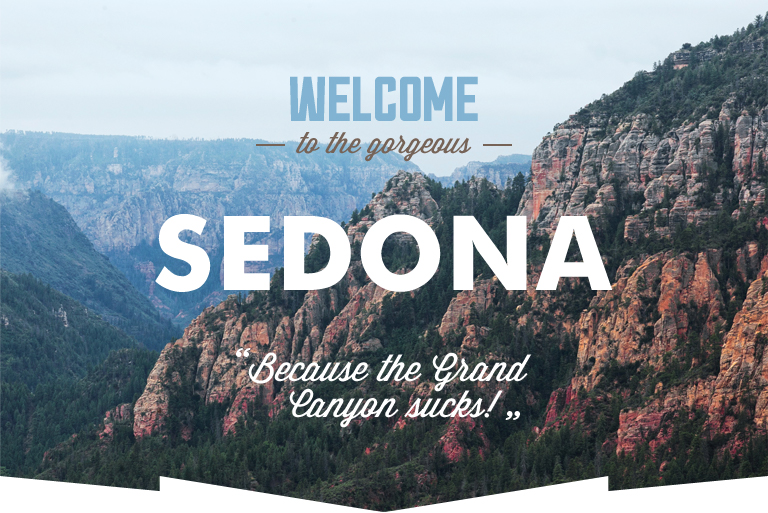
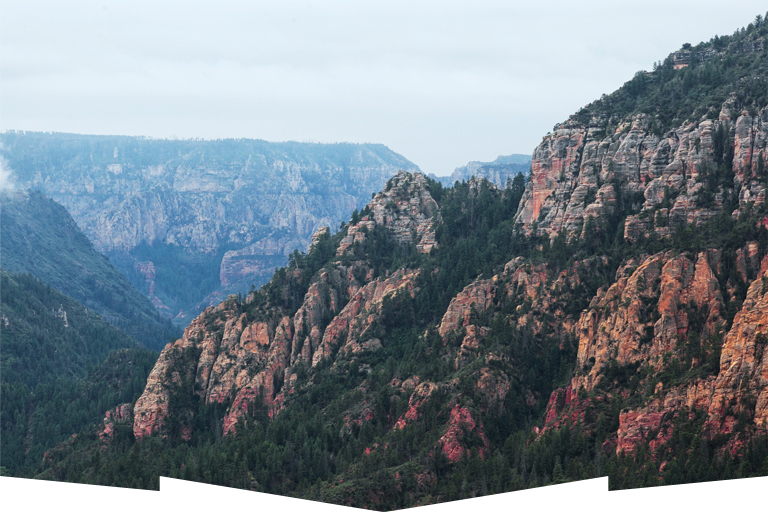
попытка2

Changed region(s): [[0.1875, 0.4055, 0.8125, 0.5926], [0.3438, 0.1248, 0.6562, 0.3119], [0.3125, 0.6862, 0.6875, 0.8421]]

diff --git a/css/style.min.css b/css/style.min.css
@@ -1,0 +1,1 @@
+body,h2{line-height:21px}body{color:#000;font-weight:400;font-family:"PT Sans","Arial",sans-serif;width:768px;margin:0 auto;text-transform:uppercase;box-shadow:0 0 7px rgba(0,0,0,.15);background-color:#939393;font-size:14px}h1,h2{font-size:30px;line-height:24px;color:#000;font-weight:700}h2{font-size:21px}img{max-width:100%;height:auto}.search h2{color:#fff}.clearfix::after{content:"";display:table;clear:both}.main-haeder,main{width:100%;background-color:#fff}.main-navigation{position:relative;text-align:center;padding-top:15px;padding-bottom:15px;background-color:#fff}.main-navigation .left,.main-navigation .right{float:left;padding:0;margin:0;list-style:none;text-align:left}.main-navigation .right{float:right;text-align:right}.main-navigation li{width:154px;line-height:26px;font-weight:700;float:left}.footer-contacts a,.main-navigation a{text-decoration:none;color:#000}.main-navigation a:hover{color:#a3c7de}.main-navigation a:active{color:#b2b2b2}.main-navigation .active{color:#766357}.main-navigation .active:hover{color:#604e43}.main-navigation .active:active,.main-navigation .active:focus{color:#e1ddda}.main-navigation img{position:absolute;top:0;left:50%;margin-left:-69px;z-index:2}.basic{position:relative;background-image:url(../img/sedona.jpg);width:768px;min-height:513px;background-color:#707273}.basic img{position:absolute;top:76px;left:156px}.text{width:494px;margin:0 auto;padding-top:56px;padding-bottom:50px;background-color:#fff}.text p{margin-bottom:0;margin-top:0}.text .reason,.text .slogan{line-height:26px;text-align:center}.text .slogan{font-weight:700;font-size:21px}.text .reason{font-size:14px;padding-top:28px}.info{color:#fff;width:768px;min-height:255px;text-align:center}.info-left{background-color:#81b3d2;text-align:center;float:left;width:256px;min-height:256px}.info-picture img,.info-right img{display:block;vertical-align:top}.info-picture,.info-right{float:right;width:512px;min-height:255px}.info-picture{float:left}.info-data{background-color:#81b3d2;float:right;width:256px;min-height:256px}.indent{padding:7px 40px 0}.info h2{color:#fff;font-size:21px;line-height:21px;padding:30px 53px 5px 50px}.info .rubric{padding:7px 30px 0 27px}.features{width:768px;font-size:0;text-align:center;padding-top:160px;padding-bottom:60px;background-color:#fff}.features-item{display:inline-block;width:33.333%;vertical-align:top;font-size:14px;line-height:21px;color:#333;position:relative}.food::before,.house::before,.souvenir::before{content:"";position:absolute;background-image:url(../img/spritenow.png);background-repeat:no-repeat;display:block;width:75px;height:72px;background-position:-10px -100px;top:-100px;left:90px}.food::before,.souvenir::before{width:74px;height:70px;background-position:-10px -10px}.souvenir::before{width:64px;height:76px;background-position:-10px -192px;top:-105px;left:97px}.features-item h2{margin:0;padding-bottom:24px}.features-item p{padding-left:50px;padding-right:50px;margin:0}.souvenir p{padding-left:42px;padding-right:42px}.vantage{width:768px;font-size:0;text-align:center;background-color:#eee}.vantage-item{display:inline-block;width:33.333%;min-height:256px;font-size:14px;vertical-align:top}.vantage-item h2{padding:30px 50px 6px}.vantage-item .rubric{padding-top:7px;padding-left:50px;padding-right:50px}.content{display:block;min-height:206px;width:438px;margin:0 auto;text-align:center;background-color:#fff}.content h1{padding-top:57px;padding-bottom:30px;margin:0}.content p{line-height:24px;margin:0;padding-bottom:47px}.scan{position:relative;padding-left:100px;padding-right:100px}.occupation input,.scan .heading{text-transform:uppercase;line-height:26px}.scan .heading{color:#fff;font-family:"PT Sans","Arial",sans-serif;font-weight:700;text-decoration:none;display:inline-block;vertical-align:top;text-align:center;padding-top:30px;background-color:#766357;min-height:56px;width:100%;font-size:21px}.search{position:absolute;top:87px;left:100px;width:458px;min-height:280px;padding:55px;text-align:left;font-size:14px;font-weight:700;text-transform:uppercase;background-color:#fff;box-shadow:0 0 7px rgba(0,0,0,.15);display:none;z-index:20}.search-show{display:block;animation:pullDown 1s}.modal-overlay{position:fixed;top:0;left:0;z-index:10;width:100%;height:100%;background:rgba(0,0,0,.5);display:none}.modal-overlay-show{display:block}.occupation{position:relative;padding-bottom:26px;width:100%}.abulf label,.departure label,.occupation label{float:left;line-height:38px}.occupation input{width:330px;min-height:34px;background-color:#f2f2f2;border:2px solid #f2f2f2;padding-left:11px;outline:none;font-size:14px;float:right}.occupation input:hover{background-color:#ebebeb;border:2px solid #ebebeb}.occupation input:active,.occupation input:focus{background-color:#fff;border:2px solid #e5e5e5}.departure .calendar,.occupation .calendar{background-image:url(../img/calendar.png);width:21px;min-height:22px;position:absolute;top:8px;right:9px}.occupation .calendar:active,.occupation .calendar:hover{background:url(../img/sprite2.png) no-repeat;width:22px;height:25px;background-position:-10px -52px}.occupation .calendar:active{height:23px;background-position:-10px -10px}.departure{position:relative;padding-bottom:27px;width:100%}.departure input{width:330px;min-height:34px;background-color:#f2f2f2;border:2px solid #f2f2f2;padding-left:10px;text-transform:uppercase;outline:none;line-height:26px;font-size:14px;float:right}.departure input:hover{background-color:#ebebeb;border:2px solid #ebebeb}.departure input:active,.departure input:focus{background-color:#fff;border:2px solid #ebebeb}.departure .calendar:active,.departure .calendar:hover{background:url(../img/sprite2.png) no-repeat;width:22px;height:25px;background-position:-10px -52px}.departure .calendar:active{height:23px;background-position:-10px -10px}.abulf{position:relative;width:50%;float:left}.abulf input{width:112px;min-height:34px;background-color:#f2f2f2;border:2px solid #f2f2f2;text-align:center;text-transform:uppercase;outline:none;font-size:14px;line-height:26px;float:right}.abulf input:hover{background-color:#ebebeb;border:2px solid #ebebeb}.abulf input:active,.abulf input:focus{background-color:#fff;border:2px solid #ebebeb}.abulf .minus,.abulf .plus{position:absolute;width:22px;height:23px}.abulf .minus{background:url(../img/minus.png) no-repeat;left:125px;top:20px}.abulf .plus{background:url(../img/plus.png) no-repeat;top:15px;right:5px}.children{position:relative;width:50%;float:right}.children label{float:left;line-height:38px;padding-left:51px}.children input{width:109px;min-height:34px;background-color:#f2f2f2;border:2px solid #f2f2f2;text-align:center;text-transform:uppercase;outline:none;font-size:14px;line-height:26px;float:right}.children input:hover{background-color:#ebebeb;border:2px solid #ebebeb}.children input:active,.children input:focus{background-color:#fff;border:2px solid #ebebeb}.children .minus{position:absolute;background:url(../img/minus.png) no-repeat;width:22px;height:23px;top:19px;left:129px}.minus:active,.minus:hover{background:url(../img/sprite.png) no-repeat;width:22px;height:23px;background-position:-10px -762px}.minus:active{background-position:-10px -250px}.children .plus{position:absolute;background:url(../img/plus.png) no-repeat;width:22px;height:23px;top:15px;right:2px}.footer-copyright a,.plus:active,.plus:hover{background:url(../img/sprite.png) no-repeat;width:22px;height:23px;background-position:-10px -731px}.footer-copyright a,.plus:active{background-position:-10px -527px}.btn,.index-content img{float:left}.btn input{margin-top:54px;width:458px;border:none;min-height:58px;background-color:#81b3d2;color:#fff;font-size:21px;line-height:26px;font-family:"PT Sans","Arial",sans-serif;font-weight:700;text-transform:uppercase;outline:none}.btn input:hover{background-color:#669ec0;width:458px}.btn input:active{background-color:#5496bd;color:#94b9d2;width:458px}.modal-content-map{width:768px;height:593px;background-image:url(../img/map.jpg);background-position:11px -10px;background-color:#cbdda9;background-size:cover}.main-footer{font-size:0;padding-top:33px;padding-bottom:33px;background-color:#fff}.container{padding-left:46px;padding-right:46px;margin:o auto;background-color:#fff}.footer-contacts,.footer-social{display:inline-block;width:33.333%;vertical-align:middle;text-align:center}.footer-contacts{font-weight:700;text-decoration:none;font-size:21px}.footer-social{font-size:14px}.social-btn{display:inline-block;width:47px;height:47px;margin:0 1px;background:#81b3d2 url(../img/sprite.png) no-repeat center;font-size:0;vertical-align:top;text-decoration:none}.social-btn:hover{background-color:#669ec0}.social-btn-t{background-position:6px -1315px}.social-btn-fb{background-position:8px -1280px}.social-btn-you{background-position:2px -432px}.social-btn-t:active{background-color:#5496bd;background-position:6px -937px}.social-btn-fb:active,.social-btn-you:active{background-color:#5496bd;background-position:8px -198px}.social-btn-you:active{background-position:2px -159px}.footer-copyright{display:inline-block;width:33.333%;font-size:14px;vertical-align:middle;text-align:center}.footer-copyright p{display:inline-block;font-size:14px;line-height:26px;vertical-align:top}.footer-copyright a{background-position:-8px -1234px;display:inline-block;width:115px;height:40px;margin-top:7px}.footer-copyright a:active,.footer-copyright a:hover{background:url(../img/sprite.png) no-repeat;background-position:-8px -1133px}.footer-copyright a:active{background-position:-8px -672px}.fond{position:absolute;background:#fff;opacity:.9;width:768px;height:120px;bottom:-1783px}.index-content{width:674px;min-height:219px;background:url(../img/filter.jpg) no-repeat;background-color:#82a5c5;padding-left:47px;padding-right:47px}.index-content-left{float:left;padding-top:28px;padding-bottom:28px}.column{float:left;color:#fff}.column-left{width:241px}.column-right{width:210px}.column ul{padding:0;margin:0;list-style:none}.column li{margin-bottom:25px}.column li:last-child{margin-bottom:0}.column h3{font-size:16px;line-height:21px;font-weight:700;margin:0;padding-bottom:25px}.column input{width:19px;height:20px;margin-right:16px;vertical-align:bottom}.border,.sorting{border-bottom:1px solid #e5e5e5}.sorting{margin:0 auto}.sorting h2{float:left;margin-right:27px;padding:13px 13px 15px 0}.sorting span{padding-left:4px}.sorting ul{float:left;list-style:none;margin:0;padding:30px 0 0}.sorting .switch{float:right}.sorting li{float:left;margin-right:30px;margin-top:5px}.sorting,.sorting a,.sorting p{font-size:12px;line-height:18px}.sorting p{float:left;padding-top:23px;padding-left:9px;color:#000}.sorting .cost{padding-left:40px;color:#81b3d2}.sorting a,.sorting a:hover{border-bottom:1px dotted #81b3d2}.sorting a{padding-left:2px;text-decoration:none;color:#dbdbdb}.sorting a:hover{color:#81b3d2}.sorting a:active{color:#000;border-bottom:none}.switch{position:relative}.switch .upwards{background-image:url(../img/upwards.png);width:9px;min-height:11px;position:absolute;top:40px;right:23px;border-bottom:none}.switch .down{background-image:url(../img/down.png);width:10px;min-height:10px;position:absolute;top:38px;right:0}.switch .upwards:active,.switch .upwards:hover{background:url(../img/sprite.png) no-repeat center;background-position:-10px -785px;border-bottom:none}.switch .upwards:active{background-position:-10px -418px}.switch .active,.switch .active:hover,.switch .down:active,.switch .down:hover{background:url(../img/sprite.png) no-repeat center;background-position:-10px -642px;border-bottom:none}.switch .active,.switch .active:hover,.switch .down:active{background-position:-10px -1019px}.switch .active:hover{cursor:default}.index-content-right{float:right;width:220px}.filter-range{color:#fff;text-transform:uppercase;padding-top:29px}.filter-range-title{margin-bottom:9px;font-weight:700;font-size:16px;line-height:21px}.price-controls,.range-controls{position:relative;line-height:32px}.price-controls{height:31px;font-size:0;border:2px solid #fff;border-radius:2px;margin-bottom:20px}.price-controls::after{content:"";position:absolute;top:16%;left:50%;width:2px;height:23px;background:#fff}.price-controls label{display:inline-block;font-size:14px;line-height:35px;vertical-align:top;cursor:pointer}.price-controls .max-price,.price-controls .min-price{padding-left:32px;width:75px}.price-controls input{width:50px;margin:0;color:inherit;font:inherit;background:0 0;border:none;outline:none}.range-controls{margin-bottom:32px}.range-controls .scale{height:2px;background:rgba(255,255,255,.3)}.range-controls .bar{width:72%;height:2px;background:#fff}.range-toggle{position:absolute;top:-9px;width:4px;height:4px;background:#ababab;border:8px solid #fff;border-radius:50%;box-shadow:0 2px 1px 0 rgba(0,1,.2);cursor:pointer}.range-toggle:hover{background:#1c4f80}.range-toggle-min{left:0}.range-toggle-max{left:72%}.filter-range .show{display:block;margin:0 auto;padding:6px 33px;font-size:14px;line-height:20px;color:#fff;text-transform:uppercase;background:0 0;border:2px solid #fff;border-radius:2px;outline:none;cursor:pointer}.filter-range .show:hover{color:#000;background:#fff}.list-hotel{float:left;min-height:454px}.list-hotel .foto{display:inline-block;padding-left:0;margin:0;padding-top:30px}.rating,.reservation{display:inline-block;font-size:14px;vertical-align:top}.reservation{width:343px;min-height:120px;padding-bottom:30px;padding-left:27px}.reservation .first,.reservation .second{width:112px;display:inline-block;vertical-align:top}.reservation .second{width:142px}.reservation .name{font-size:21px;line-height:26px;margin-top:25px;margin-bottom:0;text-decoration:none;font-weight:700;display:block;color:#000}.reservation .name:hover{color:#81b3d2}.reservation .name:active{color:#cacaca}.reservation p{padding-top:8px;margin:0;padding-bottom:13px;padding-right:35px;display:inline-block}.reservation .number{margin-right:40px}.reservation .number-motel{padding-left:25px}.rating{position:relative;padding-top:2px;padding-left:3px}.rating-apartments::before,.rating-hotel::before,.rating-motel::before{content:"";position:absolute;background:url(../img/sprite.png) no-repeat;background-position:-10px -107px;width:90px;height:23px;margin-top:27px;margin-left:72px}.rating-apartments::before,.rating-motel::before{background-position:-10px -33px;margin-left:119px}.rating-apartments::before{background-position:-10px -70px;margin-left:96px}.btn-detailed,.btn-reservation,.rating p{text-align:center;padding-top:4px;font-size:14px;line-height:21px}.rating p{width:110px;background-color:#f2f2f2;margin-left:50px;margin-top:90px;height:22px;color:#666}.btn-detailed,.btn-reservation{display:inline-block;height:23px;vertical-align:top;text-decoration:none;color:#fff;font-weight:700}.btn-detailed{background:#81b3d2 center;width:110px}.btn-detailed:hover{background:#669ec0}.btn-detailed:active{background:#5496bd;color:#94b9d2}.btn-reservation{width:142px;background:#766357 center}.btn-reservation:hover{background:#604e43}.btn-reservation:active{background:#503e33;color:#928a85}.pullDown{animation-name:pullDown;-webkit-animation-name:pullDown;animation-duration:3s;-webkit-animation-duration:3s;animation-timing-function:ease-out;-webkit-animation-timing-function:ease-out;transform-origin:50% 0%;-ms-transform-origin:50% 0%;-webkit-transform-origin:50% 0%}@keyframes pullDown{0%{transform:scaleY(.1)}40%{transform:scaleY(1.02)}60%{transform:scaleY(.98)}80%{transform:scaleY(1.01)}to{transform:scaleY(1)}}@-webkit-keyframes pullDown{0%{-webkit-transform:scaleY(.1)}40%{-webkit-transform:scaleY(1.02)}60%{-webkit-transform:scaleY(.98)}80%{-webkit-transform:scaleY(1.01)}to{-webkit-transform:scaleY(1)}}

diff --git a/css/style.css b/css/style.css
@@ -22,6 +22,10 @@ h2 {
   color: #000000;
   font-weight: bold;
 }
+img {
+  max-width: 100%;
+  height: auto;
+}
 .search h2 {
   color: #ffffff;
 }
@@ -86,15 +90,23 @@ h2 {
   top: 0;
   left: 50%;
   margin-left: -69px;
+  z-index: 2;
 }
 main {
   width: 100%;
   background-color: #ffffff;
 }
 .basic {
+  position: relative;
   background-image: url("../img/sedona.jpg");
   width: 768px;
   min-height: 513px;
+  background-color: #707273;
+}
+.basic img {
+  position: absolute;
+  top: 76px;
+  left: 156px;
 }
 .text {
   width: 494px;
@@ -260,41 +272,47 @@ main {
 }
 .content {
   display: block;
-  min-height: 205px;
+  min-height: 206px;
   width: 438px;
   margin: 0 auto;
   text-align: center;
   background-color: #ffffff;
 }
 .content h1 {
-  margin-top: 0px;
   padding-top: 57px;
-  padding-bottom: 10px;
+  padding-bottom: 30px;
+  margin: 0;
 }
 .content p {
-  margin-bottom: 0px;
   line-height: 24px;
+  margin: 0;
+  padding-bottom: 47px;
 }
 .scan {
-  background-color: #766357;
-  margin: 0 auto;
-  min-height: 86px;
-  width: 568px;
   position: relative;
+  padding-left: 100px;
+  padding-right: 100px;
 }
-.scan h2 {
-  margin-top: 0px;
-  margin-bottom: 0px;
-  padding-top: 31px;
-  text-align: center;
+.scan .heading {
+  background-color: #766357;
+  min-height: 56px;
+  width: 100%;
   color: #ffffff;
+  font-family: "PT Sans", "Arial", sans-serif;
   font-size: 21px;
   line-height: 26px;
+  font-weight: bold;
+  text-transform: uppercase;
+  text-decoration: none;
+  display: inline-block;
+  vertical-align: top;
+  text-align: center;
+  padding-top: 30px;
 }
 .search {
   position: absolute;
   top: 87px;
-  left: 0px;
+  left: 100px;
   width: 458px;
   min-height: 280px;
   padding: 55px 55px;
@@ -304,6 +322,25 @@ main {
   text-transform: uppercase;
   background-color: #ffffff;
   box-shadow: 0px 0px 7px rgba(0,0,0,0.15);
+  display: none;
+  z-index: 20;
+}
+.search-show {
+  display: block;
+  animation: pullDown 1s;
+}
+.modal-overlay {
+  position: fixed;
+  top: 0;
+  left: 0;
+  z-index: 10;
+  width: 100%;
+  height: 100%;
+  background: rgba(0, 0, 0, 0.5);
+  display: none;
+}
+.modal-overlay-show {
+  display: block;
 }
 .occupation {
   position: relative;
@@ -572,12 +609,13 @@ main {
   color: #94b9d2;
   width: 458px;
 }
-.map {
+.modal-content-map {
+  width: 768px;
+  height: 593px;
   background-image: url("../img/map.jpg");
   background-position: 11px -10px;
   background-color: #cbdda9;
-  width: 768px;
-  min-height: 593px;
+  background-size: cover;
 }
 .main-footer {
   font-size: 0px;
@@ -681,7 +719,7 @@ main {
   opacity: 0.9;
   width: 768px;
   height: 120px;
-  top: 2641px;
+  bottom: -1783px;
 }
 .index-content {
   width: 674px;
@@ -895,7 +933,7 @@ main {
   font: inherit;
   background: none;
   border: none;
-  cutline: none;
+  outline: none;
 }
 .range-controls {
   position: relative;
@@ -962,10 +1000,11 @@ main {
 .reservation {
   display: inline-block;
   width: 343px;
-  min-height: 150px;
+  min-height: 120px;
   font-size: 14px;
   vertical-align: top;
   padding-left: 27px;
+  padding-bottom: 30px;
 }
 .reservation .first {
   width: 112px;
@@ -977,16 +1016,20 @@ main {
   display: inline-block;
   vertical-align: top;
 }
-.reservation h2 {
+.reservation .name {
   font-size: 21px;
   line-height: 26px;
   margin-top: 25px;
   margin-bottom: 0;
+  text-decoration: none;
+  font-weight: bold;
+  display: block;
+  color: #000000;
 }
-.reservation h2:hover {
+.reservation .name:hover {
   color: #81b3d2;
 }
-.reservation h2:active {
+.reservation .name:active {
   color: #cacaca;
 }
 .reservation p {
@@ -1098,4 +1141,62 @@ main {
 .btn-reservation:active {
   background: #503e33;
   color: #928a85;
+}
+.pullDown {
+  animation-name: pullDown;
+  -webkit-animation-name: pullDown;
+  animation-duration: 3s;
+  -webkit-animation-duration: 3s;
+  animation-timing-function: ease-out;
+  -webkit-animation-timing-function: ease-out;
+  transform-origin: 50% 0%;
+  -ms-transform-origin: 50% 0%;
+  -webkit-transform-origin: 50% 0%;
+}
+@keyframes pullDown {
+  0% {
+      transform: scaleY(0.1);
+}
+  40% {
+      transform: scaleY(1.02);
+}
+  60% {
+      transform: scaleY(0.98);
+}
+  80% {
+      transform: scaleY(1.01);
+}
+  100% {
+      transform: scaleY(0.98);
+}
+  80% {
+      transform: scaleY(1.01);
+}
+  100% {
+      transform: scaleY(1);
+}
+}
+
+@-webkit-keyframes pullDown {
+  0% {
+      -webkit-transform: scaleY(0.1);
+}
+  40% {
+      -webkit-transform: scaleY(1.02);
+}
+  60% {
+      -webkit-transform: scaleY(0.98);
+}
+  80% {
+      -webkit-transform: scaleY(1.01);
+}
+  100% {
+      -webkit-transform: scaleY(0.98);
+}
+  80% {
+      -webkit-transform: scaleY(1.01);
+}
+  100% {
+      -webkit-transform: scaleY(1);
+}
 }

diff --git a/index.html b/index.html
@@ -5,7 +5,7 @@
     <title>SEDONA</title>
     <link href="https://fonts.googleapis.com/css?family=PT+Sans:400,700&subset=cyrillic" rel="stylesheet">
     <link href="css/normalize.css" rel="stylesheet">
-    <link href="css/style.css" rel="stylesheet">
+    <link href="css/style.min.css" rel="stylesheet">
   </head>
   <body>
     <header class="main-header">
@@ -32,7 +32,9 @@
       </div>
     </header>
     <main class="clearfix">
-      <div class="basic"></div>
+      <div class="basic">
+      <img src="img/inscription.png" width="458" height="354" alt="Надписи">
+      </div>
       <div class="text">
         <p class="slogan">Седона &mdash; небольшой городок в Аризоне, заслуживающий большего!</p>
         <p class="reason">Рассмотрим 5 причин, по которым Cедона круче, чем Гранд Каньон!</p>
@@ -93,7 +95,7 @@
         <p>Укажите предполагаемые даты поездки,<br>и мы покажем вам лучшие предложения гостиниц в Седоне</p>
       </div>
       <div class="scan">
-        <h2>Поиск гостиницы в седоне</h2>
+        <a class="heading" href="form.html">Поиск гостиницы в Седоне</a>
         <div class="search">
           <form action="https://echo.htmlacademy.ru" method="post" class="clearfix">
             <div class="occupation clearfix">
@@ -121,8 +123,11 @@
             <div class="btn"><input type="submit" value="Найти"></div>
           </form>
         </div>
+        <div class="modal-overlay"></div>
       </div>
-      <div class="map"></div>
+      <div class="modal-content-map">
+        <iframe src="https://www.google.com/maps/embed?pb=!1m18!1m12!1m3!1d52385.18047410547!2d-111.83015786048388!3d34.854373431085826!2m3!1f0!2f0!3f0!3m2!1i1024!2i768!4f13.1!3m3!1m2!1s0x872da132f942b00d%3A0x5548c523fa6c8efd!2z0KHQtdC00L7QvdCwLCDQkNGA0LjQt9C-0L3QsCA4NjMzNiwg0KHQqNCQ!5e0!3m2!1sru!2sru!4v1472968893167" width="768" height="593" frameborder="0" style="border:0" allowfullscreen></iframe>
+      </div>
     </main>
     <footer class="fond">
       <div class="main-footer">
@@ -140,5 +145,6 @@
         </div>
       </div>
     </footer>
+    <script src="js/script.min.js"></script>
   </body>
 </html>

diff --git a/catalog.html b/catalog.html
@@ -5,7 +5,7 @@
     <title>SEDONA</title>
     <link href="https://fonts.googleapis.com/css?family=PT+Sans:400,700&subset=cyrillic" rel="stylesheet">
     <link href="css/normalize.css" rel="stylesheet">
-    <link href="css/style.css" rel="stylesheet">
+    <link href="css/style.min.css" rel="stylesheet">
   </head>
   <body>
     <header class="main-header">
@@ -118,7 +118,7 @@
         <div class="container border">
           <img class="foto" src="img/amara.jpg" width="135" height="90" alt="Гостиница">
           <div class="reservation">
-            <h2>Amara resort & spa</h2>
+            <a class="name" href="#">Amara resort & spa</a>
             <div class="first">
               <p>Гостиница</p>
               <a class="btn btn-detailed" href="#">Подробнее</a>
@@ -133,7 +133,7 @@
         <div class="container border">
           <img class="foto" src="img/desertquail.jpg" width="135" height="90" alt="Мотель">
           <div class="reservation">
-            <h2>Desert Quail inn</h2>
+            <a class="name" href="#">Desert Quail inn</a>
             <div class="first">
               <p>Мотель</p>
               <a class="btn btn-detailed" href="#">Подробнее</a>
@@ -148,7 +148,7 @@
         <div class="container border">
           <img class="foto" src="img/villasatpoco.jpg" width="135" height="90" alt="Апартаменты">
           <div class="reservation">
-            <h2>Villas at poco diablo</h2>
+            <a class="name" href="#">Villas at poco diablo</a>
             <div class="first">
               <p>Апартаменты</p>
               <a class="btn btn-detailed" href="#">Подробнее</a>

diff --git a/js/script.js b/js/script.js
@@ -1,0 +1,16 @@
+var scan = document.querySelector(".scan .heading");
+var popup = document.querySelector(".search");
+var foil = document.querySelector(".modal-overlay");
+var close = document.querySelector(".modal-overlay");
+
+scan.addEventListener("click", function(event) {
+  event.preventDefault();
+  popup.classList.add("search-show");
+  foil.classList.add("modal-overlay-show");
+  });
+
+close.addEventListener("click", function(event) {
+  event.preventDefault();
+  popup.classList.remove("search-show");
+  foil.classList.remove("modal-overlay-show");
+  });

diff --git a/js/script.min.js b/js/script.min.js
@@ -1,0 +1,1 @@
+var scan=document.querySelector(".scan .heading"),popup=document.querySelector(".search"),foil=document.querySelector(".modal-overlay"),close=document.querySelector(".modal-overlay");scan.addEventListener("click",function(a){a.preventDefault(),popup.classList.add("search-show"),foil.classList.add("modal-overlay-show")}),close.addEventListener("click",function(a){a.preventDefault(),popup.classList.remove("search-show"),foil.classList.remove("modal-overlay-show")});
